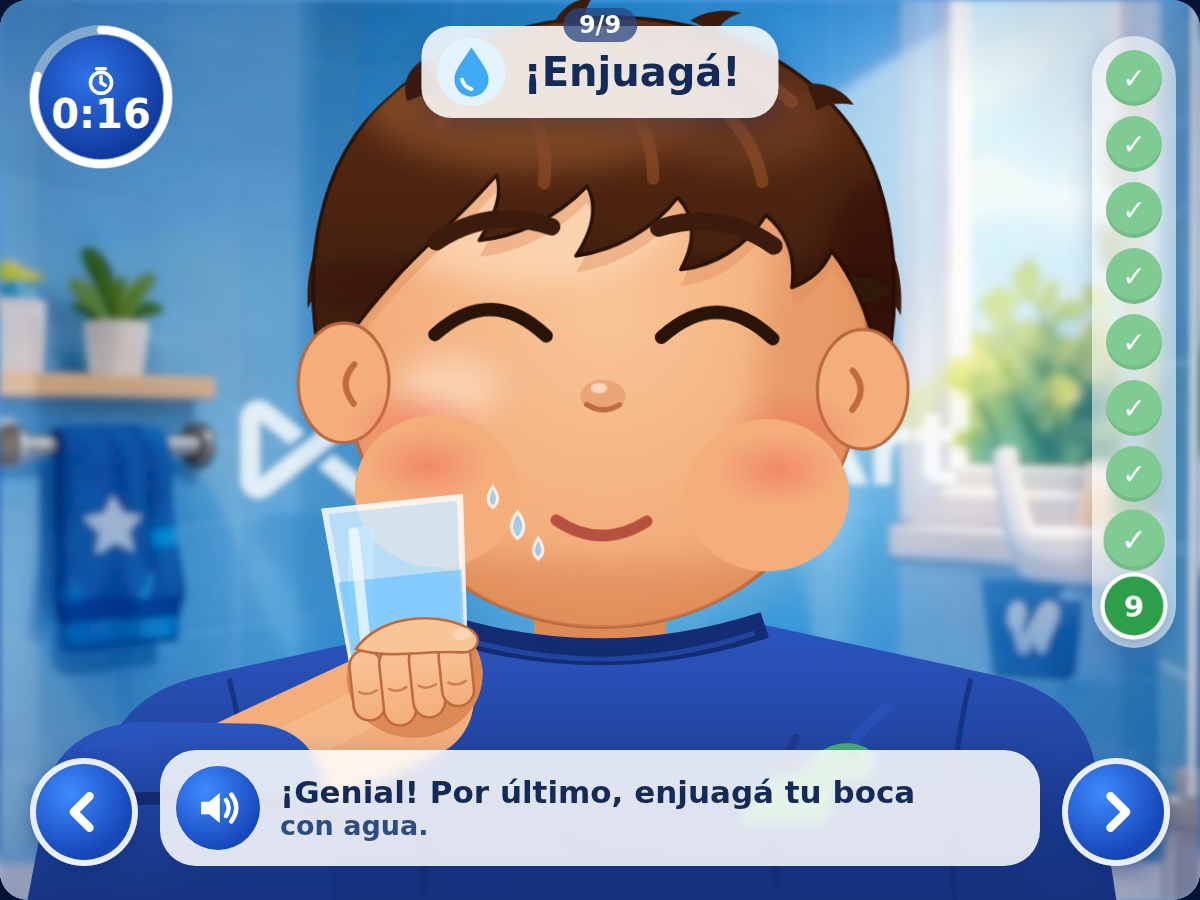
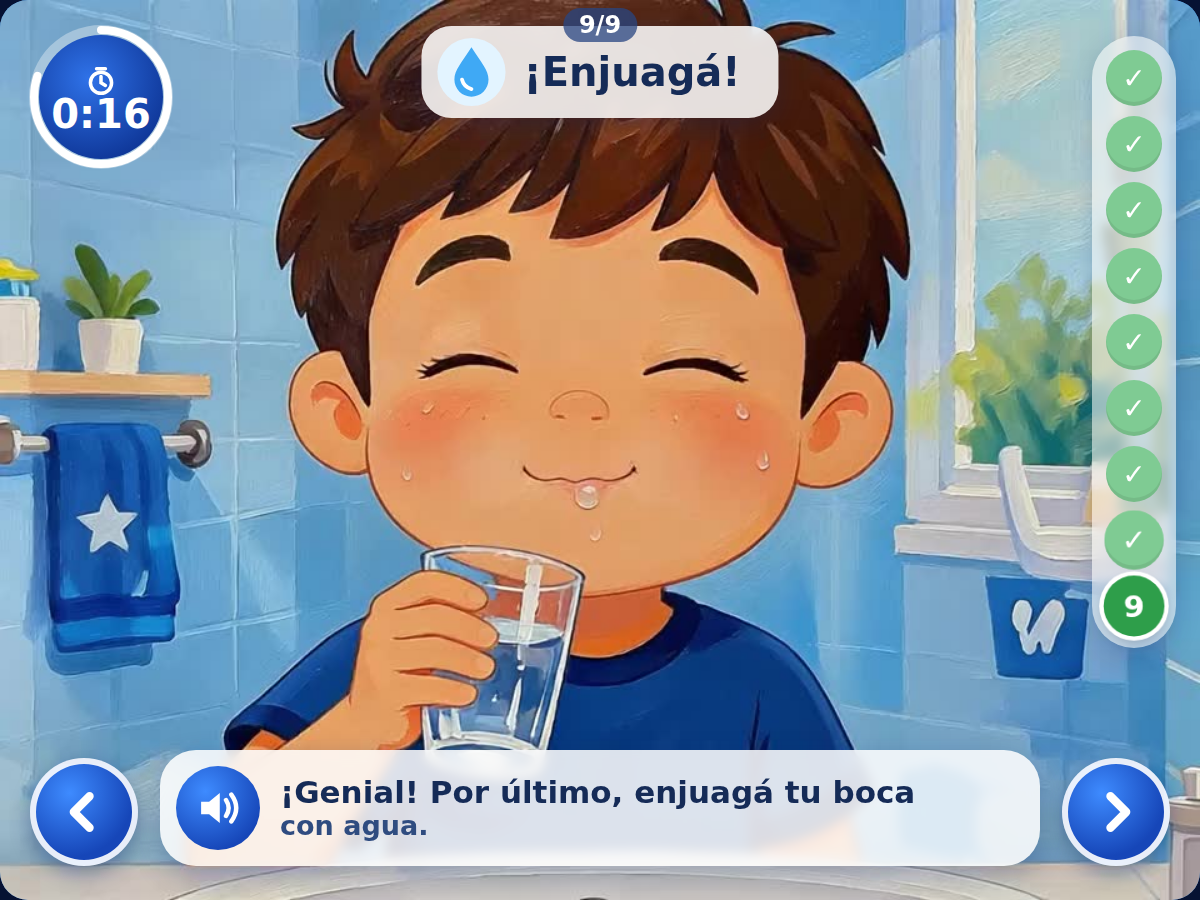
Video sin parpadeo del dibujo viejo, voz más confiable y saludo a Rami en el inicio
- Cada video muestra su primer cuadro (.jpg) al instante; el dibujo solo vuelve si no hay video.
- La voz del navegador habla en el mismo toque (iPhone/Chrome) y elige una voz en español.
- Solo se piden los mp3 que estén grabados (AUDIOS_GRABADOS).
- Pantalla principal: "¿Estás listo, Rami?" en texto y con voz.

Claude-Session: https://claude.ai/code/session_01CqgnvX7pNUGeMm5RY4B4eg

diff --git a/juego/index.html b/juego/index.html
@@ -120,7 +120,7 @@
       <video class="video-escena" id="video-inicio" muted loop playsinline preload="auto"></video>
       <svg id="svg-inicio" viewBox="0 0 1200 900" width="1200" height="900"></svg>
       <div class="titulo"><span class="t1">Misión:</span><span class="t2">Dientes</span><span class="t3">Limpios</span></div>
-      <div class="lema">¡Vamos a cepillarnos<br>paso a paso!</div>
+      <div class="lema"><span id="lema-nombre">¿Estás listo, Rami?</span><br>¡Vamos a cepillarnos!</div>
       <button id="btn-comenzar" class="boton-amarillo">
         <svg width="60" height="60" viewBox="0 0 64 64"><circle cx="32" cy="32" r="30" fill="#1753C9"/><path d="M25 18L47 32L25 46Z" fill="#fff"/></svg>
         Comenzar
@@ -758,19 +758,18 @@
       if (alCambiar) alCambiar(!si);
       escena.classList.toggle('con-video', !si && !!VIDEOS_CON_INTERFAZ[nombre]);
     }
-    video.onloadeddata = function () {
-      video.style.display = 'block';
-      verDibujo(false);
-      video.play().catch(function () {});
-    };
+    video.onloadeddata = function () { video.play().catch(function () {}); };
     var formatos = ['.mp4', '.webm']; // MP4 para Chrome/Safari; WebM para navegadores sin H.264
     video.onerror = function () {
       if (formatos.length) { video.src = CARPETA_VIDEOS + nombre + formatos.shift(); return; }
+      // Sin video: vuelve el dibujo vectorial.
       video.style.display = 'none';
       verDibujo(true);
     };
-    video.style.display = 'none';
-    verDibujo(true);
+    // El primer cuadro (.jpg) se ve al instante mientras carga el video: nunca asoma el dibujo.
+    video.poster = CARPETA_VIDEOS + nombre + '.jpg';
+    video.style.display = 'block';
+    verDibujo(false);
     video.src = CARPETA_VIDEOS + nombre + formatos.shift();
   }
 
@@ -785,8 +784,6 @@
   }
 
   function irAPaso(i) {
-    ponerVideo($('video-paso'), PASOS[i].id, $('svg-paso'), '.fondo, #nino > :not(#guias):not(#destellos)',
-      function (enVideo) { dibujarGuias($('svg-paso'), PASOS[i], enVideo); });
     estado.paso = i; estado.tiempo = 0; estado.completado = false;
     var p = PASOS[i], svg = $('svg-paso');
     $('paso-contador').textContent = (i + 1) + '/' + PASOS.length;
@@ -815,6 +812,8 @@
     dibujarSarro(svg, p);
     dibujarGuias(svg, p);
     svg.querySelector('#destellos').innerHTML = '';
+    ponerVideo($('video-paso'), PASOS[i].id, $('svg-paso'), '.fondo, #nino > :not(#guias):not(#destellos)',
+      function (enVideo) { dibujarGuias($('svg-paso'), PASOS[i], enVideo); });
     // El paso se activa con la voz: el reloj empieza cuando termina la consigna.
     estado.esperandoVoz = true;
     var pasoQueHabla = i;
@@ -1063,26 +1062,52 @@
      Si no existe, se usa la voz del navegador. Devuelve una promesa que se
      cumple cuando termina de hablar (o a los 12 s como máximo). */
   var CARPETA_AUDIO = 'recursos/audio/';
+  // Claves con archivo grabado en recursos/audio/<clave>.mp3 (ver herramientas/frases_voz.json).
+  // Las que no están acá se leen con la voz del navegador.
+  var AUDIOS_GRABADOS = {};
   var audioActual = null;
+  var hayVoz = 'speechSynthesis' in window;
+
+  // Elige la mejor voz en español que tenga el dispositivo (argentina si hay).
+  var vozEspanol = null;
+  function elegirVoz() {
+    if (!hayVoz) return;
+    var voces = speechSynthesis.getVoices().filter(function (v) { return /^es/i.test(v.lang); });
+    var orden = ['es-AR', 'es-419', 'es-US', 'es-MX', 'es-ES'];
+    voces.sort(function (a, b) {
+      var ia = orden.indexOf(a.lang.replace('_', '-')), ib = orden.indexOf(b.lang.replace('_', '-'));
+      return (ia < 0 ? 9 : ia) - (ib < 0 ? 9 : ib);
+    });
+    vozEspanol = voces[0] || null;
+  }
+  if (hayVoz) { elegirVoz(); speechSynthesis.onvoiceschanged = elegirVoz; }
+
   function hablar(texto, clave) {
-    hablandoHasta = tReloj() + 0.8 + texto.length * 0.065;
+    var estimado = 0.8 + texto.length * 0.065;
+    hablandoHasta = tReloj() + estimado;
     if (!vozActiva) return Promise.resolve();
     if (audioActual) { try { audioActual.pause(); } catch (e) {} audioActual = null; }
-    try { if ('speechSynthesis' in window) speechSynthesis.cancel(); } catch (e) {}
+    try { if (hayVoz && (speechSynthesis.speaking || speechSynthesis.pending)) speechSynthesis.cancel(); } catch (e) {}
     return new Promise(function (listo) {
       var terminado = false;
       function fin() { if (!terminado) { terminado = true; hablandoHasta = tReloj(); listo(); } }
       setTimeout(fin, 12000);
       function vozNavegador() {
-        if (!('speechSynthesis' in window)) { setTimeout(fin, texto.length * 65); return; }
+        // Si el dispositivo no habla, igual se espera lo que duraría la frase.
+        if (!hayVoz) { setTimeout(fin, estimado * 1000); return; }
         try {
           var u = new SpeechSynthesisUtterance(texto);
-          u.lang = 'es-AR'; u.rate = 0.95; u.pitch = 1.15;
+          u.lang = vozEspanol ? vozEspanol.lang : 'es-AR';
+          if (vozEspanol) u.voice = vozEspanol;
+          u.rate = 0.95; u.pitch = 1.1;
           u.onend = fin; u.onerror = fin;
+          speechSynthesis.resume();
           speechSynthesis.speak(u);
+          setTimeout(fin, (estimado + 3) * 1000);
         } catch (e) { fin(); }
       }
-      if (!clave) { vozNavegador(); return; }
+      // Se habla en el mismo toque que lo pidió: iPhone y Chrome no dejan sonar después.
+      if (!clave || !AUDIOS_GRABADOS[clave]) { vozNavegador(); return; }
       var a = new Audio(CARPETA_AUDIO + clave + '.mp3');
       audioActual = a;
       a.onended = fin;
@@ -1090,6 +1115,21 @@
       a.play().catch(function () { if (audioActual === a) vozNavegador(); });
     });
   }
+
+  // Saludo de la pantalla principal. Los navegadores no dejan hablar antes del primer toque,
+  // así que suena con el primer toque en la pantalla (y al volver al inicio).
+  var NOMBRE = 'Rami';
+  var saludoDicho = false;
+  $('lema-nombre').textContent = '¿Estás listo, ' + NOMBRE + '?';
+  function saludar() {
+    if (estado.pantalla !== 'inicio') return;
+    saludoDicho = true;
+    hablar('¿Estás listo, ' + NOMBRE + '?', 'inicio');
+  }
+  document.addEventListener('pointerdown', function primerToque(ev) {
+    document.removeEventListener('pointerdown', primerToque, true);
+    if (!saludoDicho && !$('btn-comenzar').contains(ev.target)) saludar();
+  }, true);
 
   /* ---------- Controles ---------- */
   $('btn-comenzar').onclick = empezarMision;
@@ -1101,7 +1141,12 @@
   $('btn-siguiente').onclick = siguiente;
   $('btn-anterior').onclick = function () { if (estado.paso > 0) irAPaso(estado.paso - 1); };
   $('btn-voz').onclick = function () { var p = PASOS[estado.paso]; hablar(p.l1 + ' ' + p.l2, p.id); };
-  $('btn-volver').onclick = function () { mostrar('inicio'); };
+  $('btn-volver').onclick = function () { mostrar('inicio'); saludar(); };
+  // Algunos navegadores sí dejan hablar al abrir; si no arrancó, queda para el primer toque.
+  setTimeout(function () {
+    saludar();
+    setTimeout(function () { if (!hayVoz || !speechSynthesis.speaking) saludoDicho = false; }, 900);
+  }, 600);
 
   /* ---------- Escalado del escenario ---------- */
   function ajustar() {
